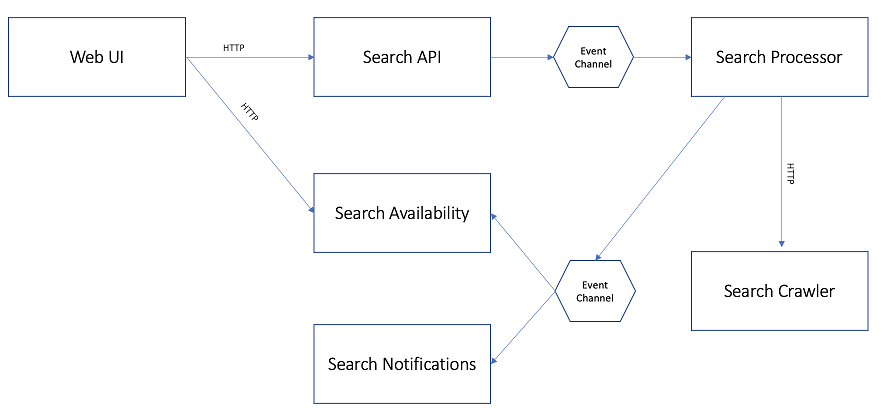
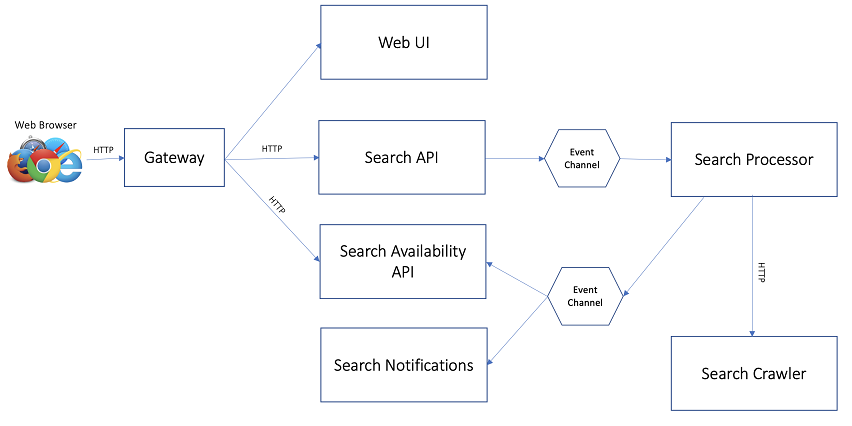
Initial API gateway check in.
Updating architecture documentation to reflect the API gateway.

diff --git a/hungryman-api-gateway/src/main/java/com/java/example/tanzu/hungryman/HungrymanAPIGatewayApplication.java b/hungryman-api-gateway/src/main/java/com/java/example/tanzu/hungryman/HungrymanAPIGatewayApplication.java
@@ -1,0 +1,13 @@
+package com.java.example.tanzu.hungryman;
+
+import org.springframework.boot.SpringApplication;
+import org.springframework.boot.autoconfigure.SpringBootApplication;
+
+@SpringBootApplication
+public class HungrymanAPIGatewayApplication 
+{
+	public static void main(String[] args) 
+	{
+		SpringApplication.run(HungrymanAPIGatewayApplication.class, args);
+	}
+}
